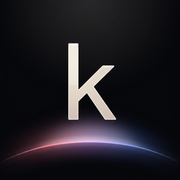
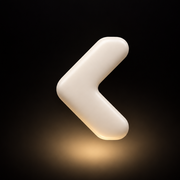
Add files via upload

diff --git a/index.html b/index.html
@@ -12,9 +12,9 @@
 <meta name="mobile-web-app-capable" content="yes">
 <meta name="apple-mobile-web-app-status-bar-style" content="black-translucent">
 <meta name="apple-mobile-web-app-title" content="Konta">
-<link rel="manifest" href="manifest.webmanifest?v=4">
-<link rel="icon" type="image/png" sizes="192x192" href="k4-icon-192.png">
-<link rel="apple-touch-icon" href="k4-touch-180.png">
+<link rel="manifest" href="manifest.webmanifest?v=6">
+<link rel="icon" type="image/png" sizes="192x192" href="k5-icon-192.png?v=5">
+<link rel="apple-touch-icon" sizes="180x180" href="k5-touch-180.png?v=5">
 <link rel="apple-touch-startup-image" media="(device-width: 440px) and (device-height: 956px) and (-webkit-device-pixel-ratio: 3) and (orientation: portrait)" href="launch-1320x2868.png">
 <link rel="apple-touch-startup-image" media="(device-width: 402px) and (device-height: 874px) and (-webkit-device-pixel-ratio: 3) and (orientation: portrait)" href="launch-1206x2622.png">
 <link rel="apple-touch-startup-image" media="(device-width: 430px) and (device-height: 932px) and (-webkit-device-pixel-ratio: 3) and (orientation: portrait)" href="launch-1290x2796.png">
@@ -929,7 +929,7 @@ html.pwax #ctitle{position:absolute}
 @media (prefers-reduced-motion:reduce){body.deep .screen:not(.hidden){transform:none!important;opacity:.85!important}.swr.fresh,.swr.fresh .row,.gdone.shine .hl,.gdone.shine h2{animation:none}.row:active,.btn:active,.chip:active{scale:1}}
 </style>
 </head>
-<body class="boot"><script>(function(){var B="202611201542";try{if(navigator.serviceWorker&&navigator.serviceWorker.controller)return;fetch("/version.json?t="+Date.now(),{cache:"no-store"}).then(function(r){return r.ok?r.json():null}).then(function(j){if(j&&j.b&&j.b!==B&&sessionStorage.getItem("kupd")!==j.b){sessionStorage.setItem("kupd",j.b);var u=new URL(location.href);u.searchParams.set("v",j.b);location.replace(u.toString())}}).catch(function(){})}catch(e){}})()</script><script>try{var t=localStorage.getItem("konta_theme")||"aurora";var mg={platinum:"cash",franc:"alps",gold:"dial",dollar:"note",vault:"dial",zurich:"cash"};document.documentElement.dataset.th=mg[t]||t;var m=localStorage.getItem("konta_mode")||"dark",tw=window.Telegram&&Telegram.WebApp;var L=m==="light"||(m==="auto"&&(tw&&tw.colorScheme?tw.colorScheme==="light":matchMedia("(prefers-color-scheme: light)").matches));if(L)document.documentElement.classList.add("light")}catch(e){}</script>
+<body class="boot"><script>(function(){var B="202611201551";try{if(navigator.serviceWorker&&navigator.serviceWorker.controller)return;fetch("/version.json?t="+Date.now(),{cache:"no-store"}).then(function(r){return r.ok?r.json():null}).then(function(j){if(j&&j.b&&j.b!==B&&sessionStorage.getItem("kupd")!==j.b){sessionStorage.setItem("kupd",j.b);var u=new URL(location.href);u.searchParams.set("v",j.b);location.replace(u.toString())}}).catch(function(){})}catch(e){}})()</script><script>try{var t=localStorage.getItem("konta_theme")||"aurora";var mg={platinum:"cash",franc:"alps",gold:"dial",dollar:"note",vault:"dial",zurich:"cash"};document.documentElement.dataset.th=mg[t]||t;var m=localStorage.getItem("konta_mode")||"dark",tw=window.Telegram&&Telegram.WebApp;var L=m==="light"||(m==="auto"&&(tw&&tw.colorScheme?tw.colorScheme==="light":matchMedia("(prefers-color-scheme: light)").matches));if(L)document.documentElement.classList.add("light")}catch(e){}</script>
 <div class="splash" id="splash"><div class="stage">
 <svg class="g1" viewBox="0 0 390 300"><defs><radialGradient id="spg" cx="195" cy="200" r="200" gradientUnits="userSpaceOnUse" gradientTransform="translate(0 200) scale(1 .62) translate(0 -200)"><stop offset="0" style="stop-color:rgb(var(--sl));stop-opacity:.42"/><stop offset=".35" style="stop-color:rgb(var(--sl));stop-opacity:.14"/><stop offset="1" style="stop-color:rgb(var(--sl));stop-opacity:0"/></radialGradient><clipPath id="spu"><path d="M-10 262 Q195 138 400 262 L400 0 L-10 0Z"/></clipPath></defs><rect class="glw" width="390" height="300" fill="url(#spg)" clip-path="url(#spu)"/></svg>
 <div class="kw"><div class="kk">k</div></div>
@@ -958,6 +958,6 @@ html.pwax #ctitle{position:absolute}
 <div class="sheet" id="sheet"></div>
 <div class="sheet" id="sheet2"></div>
 <div class="toast glass" id="toast"></div>
-<script src="app.js?v=202611201542" defer></script>
+<script src="app.js?v=202611201551" defer></script>
 </body>
 </html>

diff --git a/sw.js b/sw.js
@@ -1,6 +1,6 @@
 // Konta & Cie: офлайн-режим. Сеть ждём недолго (1,2 с для приложения, 2,5 с для остального), иначе кэш.
-const C = 'konta-v27';
-const CORE = ['./', './index.html', './manifest.webmanifest', './k2-icon-192.png', './k2-touch-180.png'];
+const C = 'konta-v29';
+const CORE = ['./', './index.html', './manifest.webmanifest', './k5-icon-192.png', './k5-touch-180.png'];
 self.addEventListener('install', e => { e.waitUntil(caches.open(C).then(c => c.addAll(CORE)).then(() => self.skipWaiting())); });
 self.addEventListener('activate', e => { e.waitUntil(caches.keys().then(ks => Promise.all(ks.filter(k => k !== C).map(k => caches.delete(k)))).then(() => self.clients.claim())); });
 const put = (r, res) => { if (res && (res.ok || res.type === 'opaque')) { const cp = res.clone(); caches.open(C).then(c => c.put(r, cp)); } return res; };
